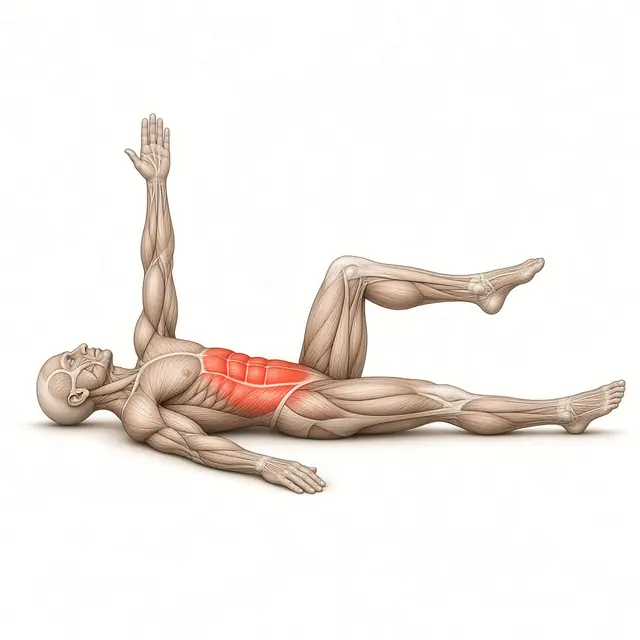
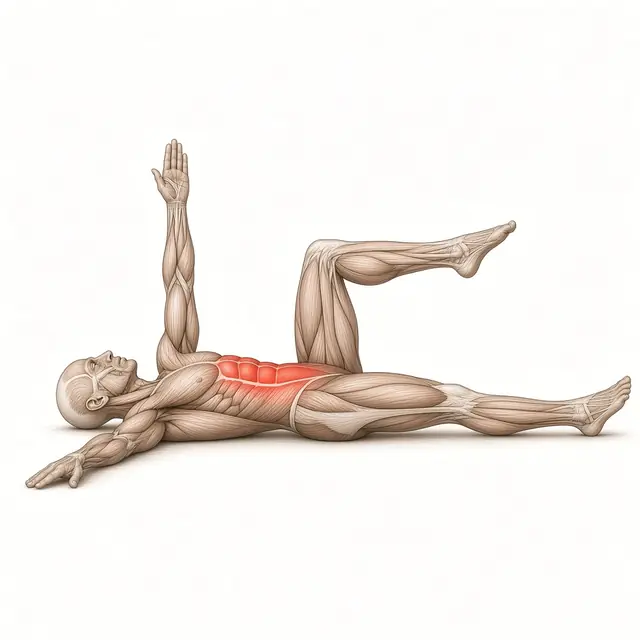
Update 2026-10-26

Changed region(s): [[0.0312, 0.1562, 1.0, 0.7812]]

diff --git a/sw.js b/sw.js
@@ -1,5 +1,5 @@
-/* Voccola Gym Log – Service Worker (v1.6.5: anatomische Übungsbilder Hüfte) */
-const CACHE = 'vgl-v1.6.5';
+/* Voccola Gym Log – Service Worker (v1.6.6: verbesserte Übungsbilder) */
+const CACHE = 'vgl-v1.6.6';
 const ASSETS = ['./', './index.html', './styles.css', './app.js', './mobility.js', './manifest.webmanifest',
   './icons/icon-192.png', './icons/icon-512.png', './icons/apple-touch-icon.png', './icons/icon-maskable-512.png', './assets/dumbbell.webp', './assets/keepawake.mp4',
   './assets/mob/catcow.webp', './assets/mob/hipflex.webp', './assets/mob/wgs.webp', './assets/mob/n9090.webp', './assets/mob/bridge.webp', './assets/mob/birddog.webp', './assets/mob/deadbug.webp', './assets/mob/tuer.webp', './assets/mob/kneel.webp', './assets/mob/pigeon.webp', './assets/mob/turtle.webp', './assets/mob/froll_g.webp', './assets/mob/froll_t.webp', './assets/mob/ballpir.webp', './assets/mob/duoball.webp', './assets/mob/shakti.webp'];

diff --git a/mobility.js b/mobility.js
@@ -1,4 +1,4 @@
-/* Voccola Gym Log – Hüft-Beweglichkeit (v1.6.5). Eigene Daten in localStorage 'vgl-mob', berührt Trainingsdaten nicht. */
+/* Voccola Gym Log – Hüft-Beweglichkeit (v1.6.6). Eigene Daten in localStorage 'vgl-mob', berührt Trainingsdaten nicht. */
 'use strict';
 (function () {
 const KEY = 'vgl-mob';

diff --git a/app.js b/app.js
@@ -1,6 +1,6 @@
 /* Voccola Gym Log – Vanilla JS, offline, keine Tracker. Daten bleiben im Browser (IndexedDB). */
 'use strict';
-const APP_VERSION = '1.6.5';
+const APP_VERSION = '1.6.6';
 
 /* ---------- Helpers ---------- */
 const $ = (s, r = document) => r.querySelector(s);
